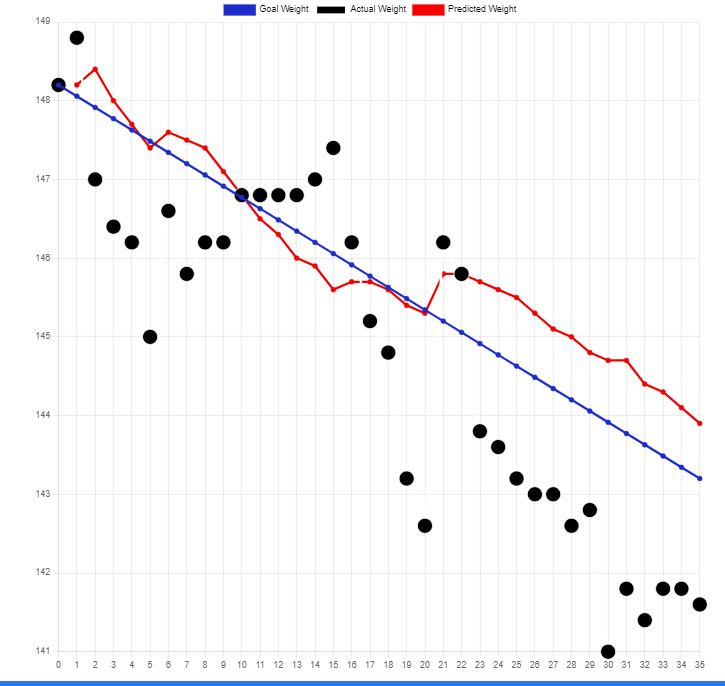
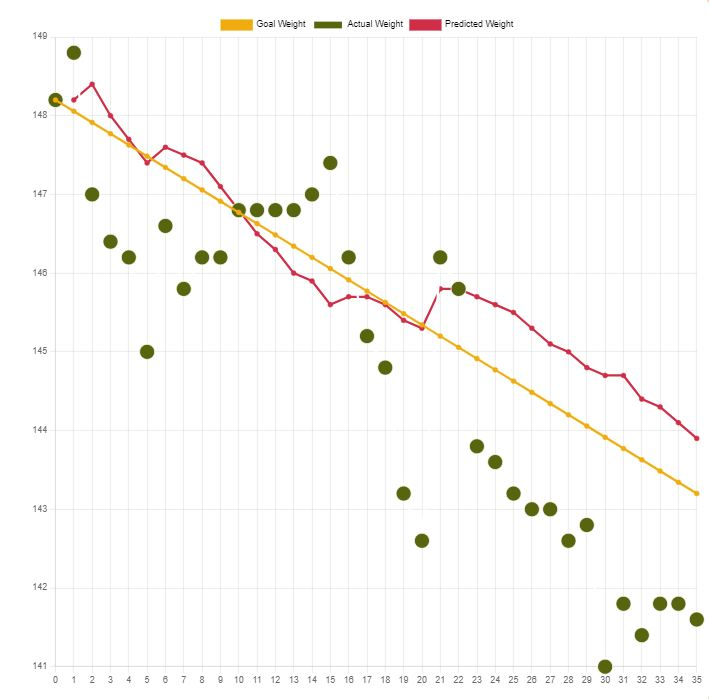
formatting

diff --git a/public/style.css b/public/style.css
@@ -75,8 +75,8 @@ td > a {
     background-color:#B0E0E6;
     height: 100%;
     width: 100%;
-    padding: 10px 10px 500px 10px; /*table default padding except on bottom 500px for example*/
-    margin-bottom: -490px; /*same as bottom padding - table padding*/
+    padding: 10px 10px 500px 10px; 
+    margin-bottom: -490px; 
 }
 
   /* navbar styling */
@@ -88,13 +88,13 @@ td > a {
     text-align: center;
 }
 .navbar h1 {
-    font-size: 300;
+    font-size: 3rem;
     margin: 5px auto ;
     align-items: center;
     padding-top: 20px;
 }
 .navbar h2 {
-    font-size: 200;
+    font-size: 2rem;
     margin: 5px auto ;
     align-items: center;
     padding-bottom: 20px;
@@ -108,6 +108,20 @@ td > a {
     padding-top: 8px;
     margin-top: 10px;
     }
+
+
+    .mainBody {
+        background: url(../images/fruit.jpg) no-repeat center fixed; 
+        min-height: 600px;
+        background-size: cover;
+        background-color: var(--dark-color);
+        /* border-top: solid 25px var(--dark-color); */
+        padding-left: 20px;
+        padding-top: 10px;
+        margin-left:auto;
+        margin-right: auto;
+    }
+
 
 .instructions {
     max-width: 1440px;
@@ -135,7 +149,19 @@ td > a {
 .card4 {    grid-area: line3b;}
 .card5 {    grid-area: line4;}
 
-
+/* .example-div {
+    padding: 50px;
+    margin: 100px;
+    text-align: center;
+    align-items: center;
+} */
+.example{
+    width: 1100px;
+    display: block;
+    margin: auto;
+    padding: 50px;
+    padding-top: -50px;
+}
 .login-card{
     max-width: 500px;
     margin: auto;
@@ -161,7 +187,12 @@ td > a {
     margin-top: 20px;
     margin-bottom: 20px;
 }
-
+.table-card{
+    max-width: 975px;
+    margin: auto;
+    margin-top: 20px;
+    margin-bottom: 20px;
+}
 
 .showcase-form input[type='text'] {
     border: 0;
@@ -189,7 +220,12 @@ td > a {
     margin-bottom: 5px;
 }
 
-
+caption {
+    font-size: 2rem;
+    margin: 5px auto ;
+    align-items: center;
+    padding-bottom: 20px;
+}
 
 .chart-container {
     margin-left: 50px;

diff --git a/controllers/conAuth.js b/controllers/conAuth.js
@@ -66,6 +66,13 @@ const WeightDataModel = require('../models/WeightDataModel')
       title: 'Create Account'
     })
   }
+  exports.getExample = (req, res) => {
+    if (req.user) {
+      return res.redirect('/daily')
+    }
+    res.render('example.ejs')
+
+  }
   
   exports.postSignup = (req, res, next) => {
     const validationErrors = []

diff --git a/controllers/conCommit.js b/controllers/conCommit.js
@@ -10,6 +10,7 @@ module.exports = {
             dbstartweight:req.body.startweight, 
             user:req.user.id,
             dbtodaysdaynumber:i,  
+            dbrunningpredictedweight:req.body.startweight,
             dbdailygoalweight:req.body.startweight-(i)*req.body.goaldeficit/3500      
           });
         }

diff --git a/routes/routeMain.js b/routes/routeMain.js
@@ -18,5 +18,6 @@ router.get('/logout', authController.logout)
 router.get('/signup', authController.getSignup)
 router.post('/signup', authController.postSignup)
 router.get('/commit', authController.getCommit)
+router.get('/example', authController.getExample)
 
 module.exports = router
